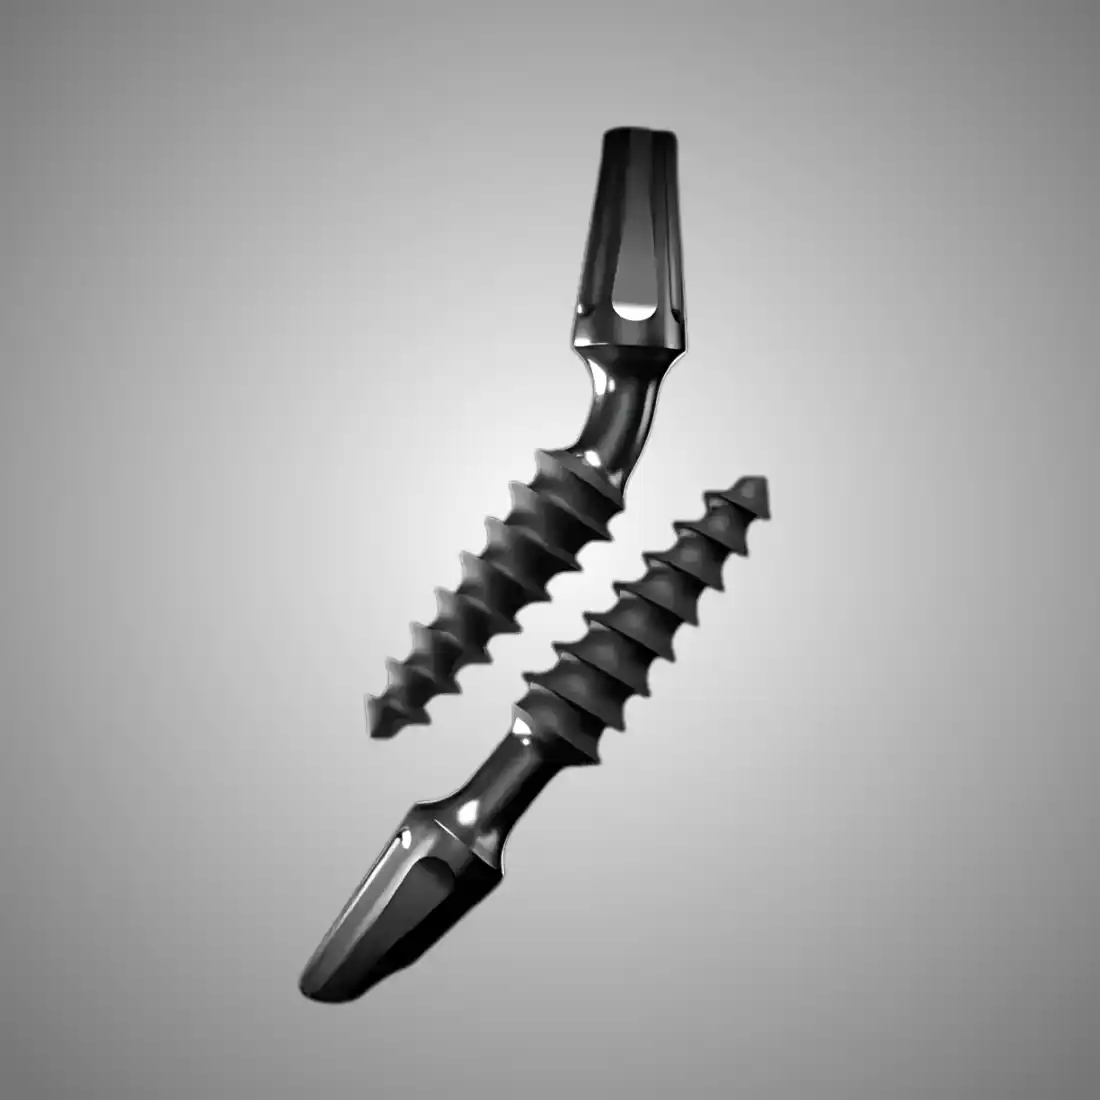
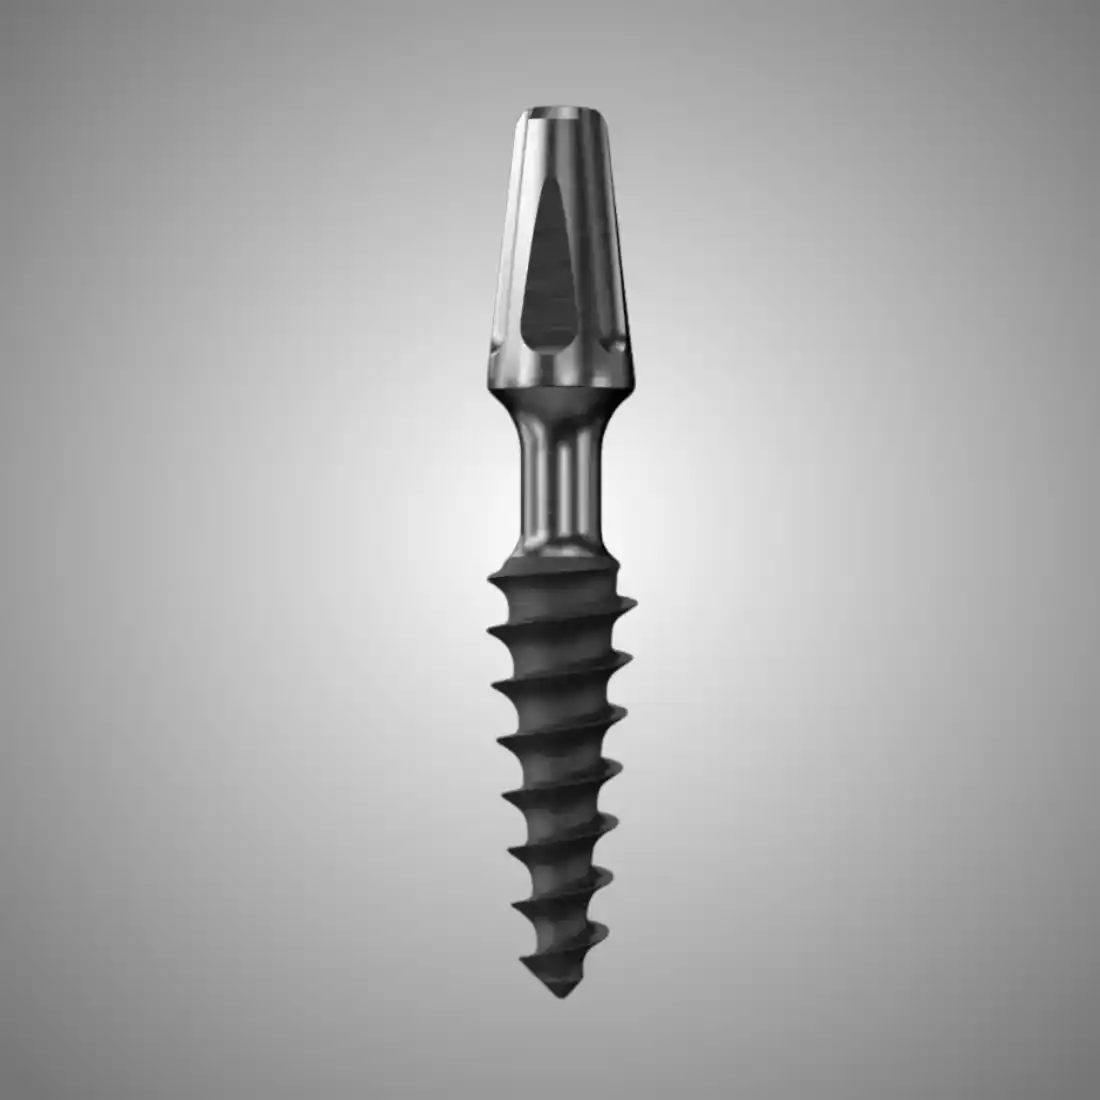
fix: implants images

Changed region(s): [[0.2782, 0.0927, 0.7109, 0.9273]]

diff --git a/src/components/ui/ProductDetails.js b/src/components/ui/ProductDetails.js
@@ -233,7 +233,7 @@ export const Parts3DGallery = (productId, productName) => {
   return `
     <div class="bg-white border border-silver rounded-2xl p-8 shadow-lg">
       <h3 class="font-heading text-2xl font-bold text-secondary mb-6">Component Variants</h3>
-      <div class="grid grid-cols-2 sm:grid-cols-3 md:grid-cols-4 lg:grid-cols-5 gap-4">
+      <div class="grid grid-cols-2 sm:grid-cols-3 md:grid-cols-4 lg:grid-cols-6 gap-4">
         ${parts3D
           .map(
             (imgPath, i) => `

diff --git a/src/data/productImages.js b/src/data/productImages.js
@@ -89,6 +89,7 @@ export const productImages = {
 
 // Secondary images for products with multiple views
 export const productSecondaryImages = {
+  "mgm-s": "/assets/images/mgm-s/mgm-s-2.png",
   "straight-abutment": [
     "/assets/images/prosthetics-covers/NARROW STRAIGHT ABUTMENT.webp",
     "/assets/images/products/12-Straight Abut2.webp",
